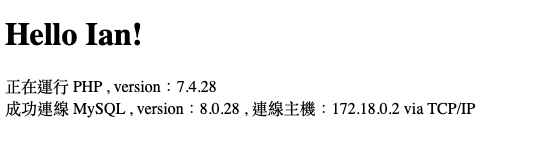
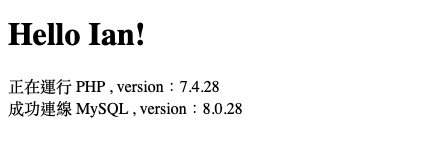
修改錯誤
- [x] 容器映射本機位置改為相對路徑
- [x] 使用 Servername 來連線 Mysql

Changed region(s): [[0.0, 0.7042, 0.8924, 0.8451], [0.0, 0.1408, 0.3272, 0.338], [0.0, 0.5352, 0.5057, 0.6761]]

diff --git a/docker-compose/docker-volume/html/index.php b/docker-compose/docker-volume/html/index.php
@@ -9,14 +9,13 @@
     <?php
     echo '正在運行 PHP , version：' . phpversion();
 
-    $con = mysqli_connect("172.18.0.2", "myuser", "password");
+    $con = mysqli_connect("mysql", "myuser", "password");
 
     if (!$con) {
         echo "錯誤! 無法連線 MySQL，錯誤代碼：" . mysqli_connect_errno();
         exit;
     };
     echo "<br>成功連線 MySQL , version：" . mysqli_get_server_info($con);
-    echo " , 連線主機：" . mysqli_get_host_info($con);
 
     mysqli_close($con);
     ?>
